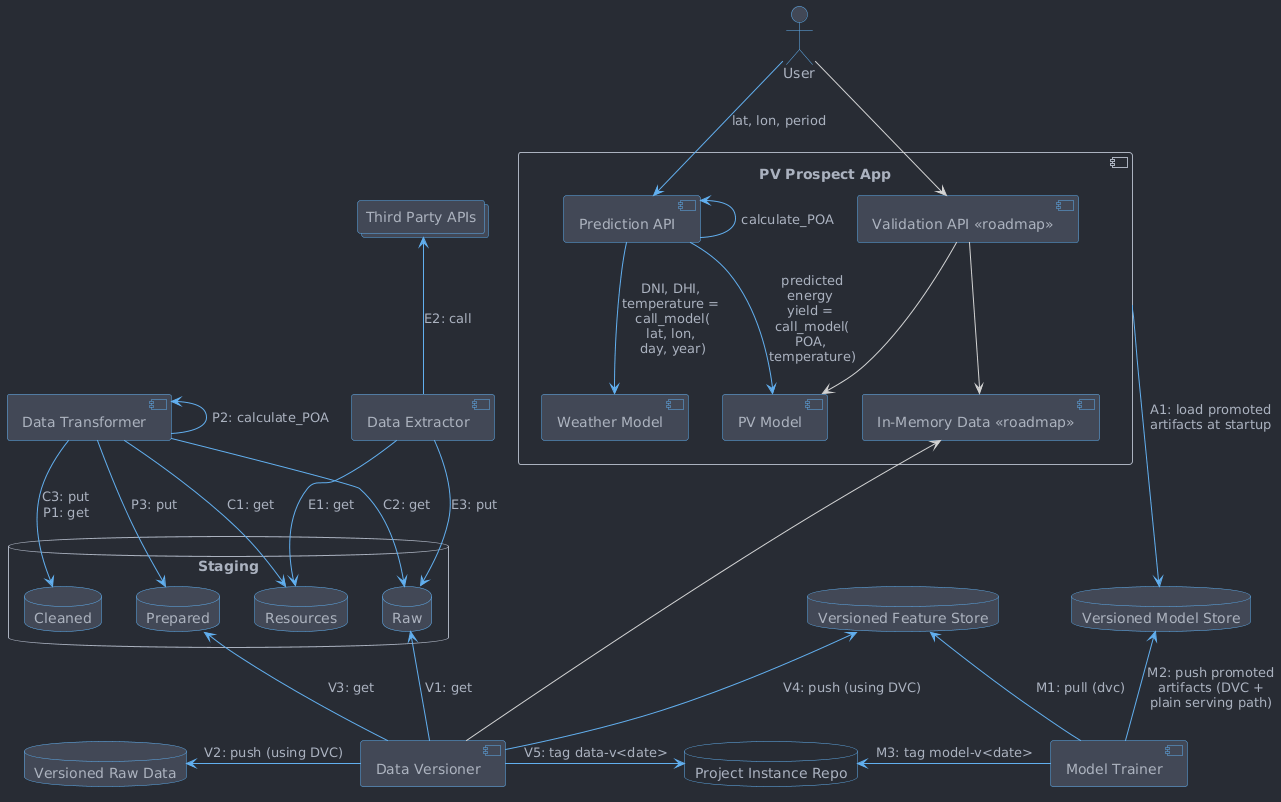
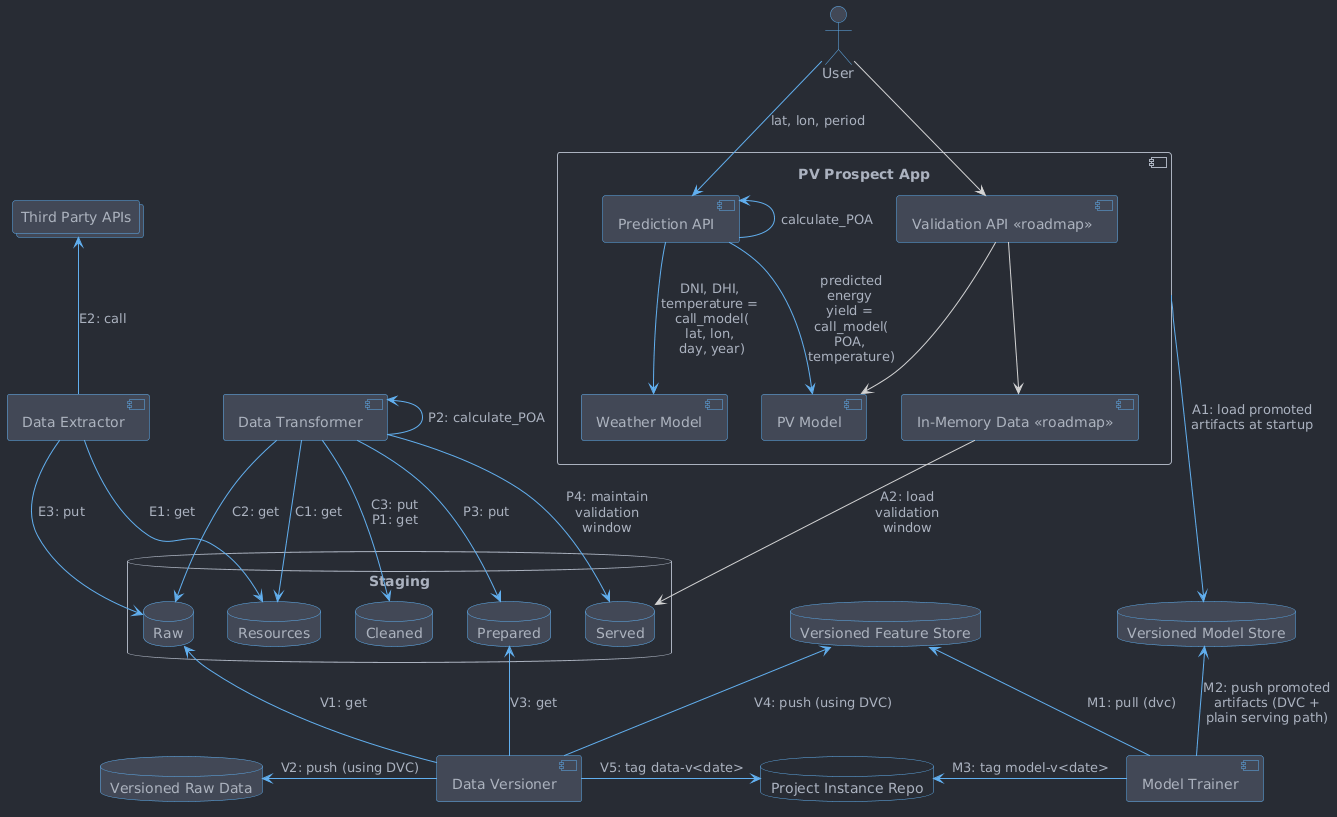
Document validation window: artifact, workflow step, seed procedure
README:
- P — Data Preparation: describe the rolling 90-day window.csv +
  manifest.json artifact at data/served/validation-window/ and link
  to the seeding runbook
- Data Transformation operational bullet: note maintain_validation_window
  and consolidate_logs run as post-pipeline cleanup steps
- Add "Seeding the Validation Window" runbook with dvc pull + seed
  script commands

doc/architecture.puml:
- Add "Served" database inside the Staging block
- Add P4 (maintain validation window): DataTransformer → StagingServed
- Add A2 (load validation window): StagingServed → InMemoryData
  (roadmap, greyed)
- Remove stale InMemoryData ← DataVersioner roadmap arrow
- Add hidden alignment arrow StagingPrepared → StagingServed

(PNG needs regeneration from the updated puml.)

diff --git a/README.md b/README.md
@@ -101,8 +101,22 @@ path, since git tags own versioning — so each weekly versioning run *adds* `.d
 files rather than overwriting one, keeping the whole corpus retrievable with a
 single `git checkout <tag> && dvc pull`. The daily transform fans `prepare_pv` out
 across dates as micro-batch CSVs in `prepared-batches/`, then an assembly step
-merges them into the partition files. Implemented in
-`pv-prospect-data-transformation`.
+merges them into the partition files. After all prepare steps succeed, a final
+`maintain_validation_window` step maintains a **rolling 90-day validation window**
+artifact at `data/served/validation-window/` in the staging bucket:
+
+* `window.csv` — all prepared PV rows for the last 90 days across every known site,
+  with `system_id` prepended as the first column.
+* `manifest.json` — updated timestamp, window bounds, and per-site row counts.
+
+The window is a derived, regenerable serving cache separate from the DVC feature
+store. The cutoff is data-relative (`max(time) − 90 days`) so a temporarily-offline
+site is not immediately dropped. The `data/served/` prefix lies outside the weekly
+clean's blast radius. No new IAM is needed — the pipeline SA already holds
+`objectAdmin` on the staging bucket. The artifact must be seeded once before the
+workflow step can run (see
+[Seeding the Validation Window](#seeding-the-validation-window)).
+Implemented in `pv-prospect-data-transformation`.
 
 ### A — App Data Loading
 
@@ -164,7 +178,9 @@ Workflows on a daily or weekly basis:
   failure rolls back the day cleanly (tomorrow re-plans the same window).
 * **Data Transformation (`pv-prospect-transform`)**: Runs at **05:30 UTC**.
   Orchestrates the data cleaning and preparation steps to generate the prepared
-  datasets for all data extracted earlier in the day.
+  datasets for all data extracted earlier in the day. On success, runs
+  `maintain_validation_window` (see P above) and `consolidate_logs` as
+  post-pipeline cleanup steps.
 * **PV-Sites Transformation Backfill (`pv-prospect-daily-transform-pv-sites-backfill`)**:
   Runs at **06:00 UTC**. Unlike the other pipelines, this one has no Cloud
   Workflow — Cloud Scheduler invokes the `data-transformation` Cloud Run Job
@@ -284,3 +300,27 @@ re-transform after a feature-spec change), follow
 [`pv-prospect-data-transformation/doc/runbooks/replay-window.md`](pv-prospect-data-transformation/doc/runbooks/replay-window.md):
 marker rewind alone is filtered out by the cross-run resume scan, so the
 offending consolidated ledger has to leave the scan root as well.
+
+### Seeding the Validation Window
+
+The `maintain_validation_window` workflow step is fail-closed: it raises if the
+artifact does not already exist. Before enabling the daily workflow step, seed the
+window once from the locally-pulled DVC prepared corpus:
+
+```bash
+# In pv-prospect-instance — pull only the recent PV partitions.
+# Adjust the date threshold to suit; 90 days back from today is sufficient.
+dvc pull data/prepared/pv/
+
+# In pv-prospect (submodule)
+cd pv-prospect-data-transformation
+poetry run python scripts/seed_validation_window.py \
+  --prepared-dir ../data/prepared \
+  --days 90
+```
+
+`seed_validation_window.py` reads the standard config
+(`validation_window_storage` in `config-default.yaml`, pointing at
+`gs://pv-prospect-staging/data/served/validation-window/`) and writes
+`window.csv` + `manifest.json` there. Set `RUNTIME_ENV` and `CONFIG_DIR` as
+needed if running outside the default environment.